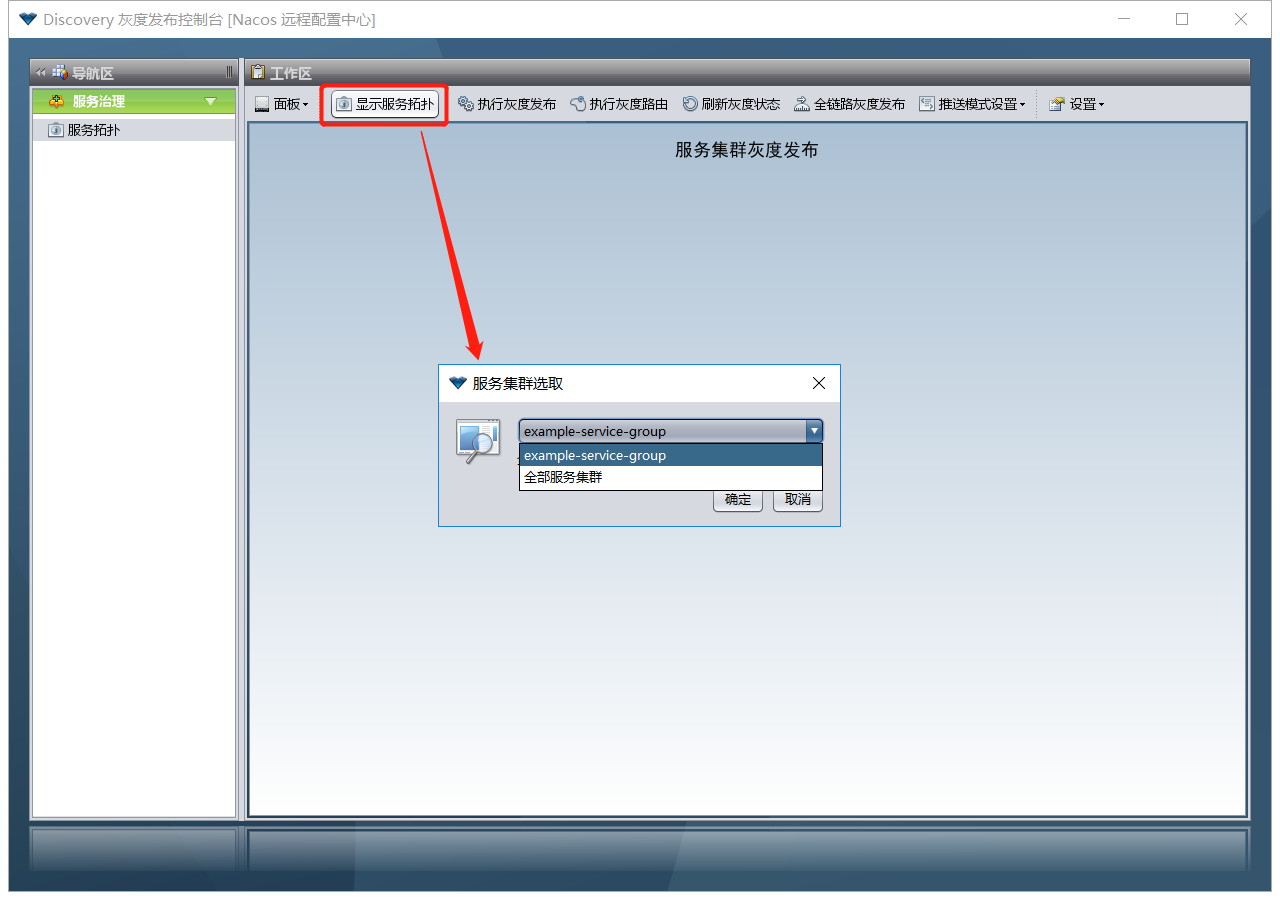
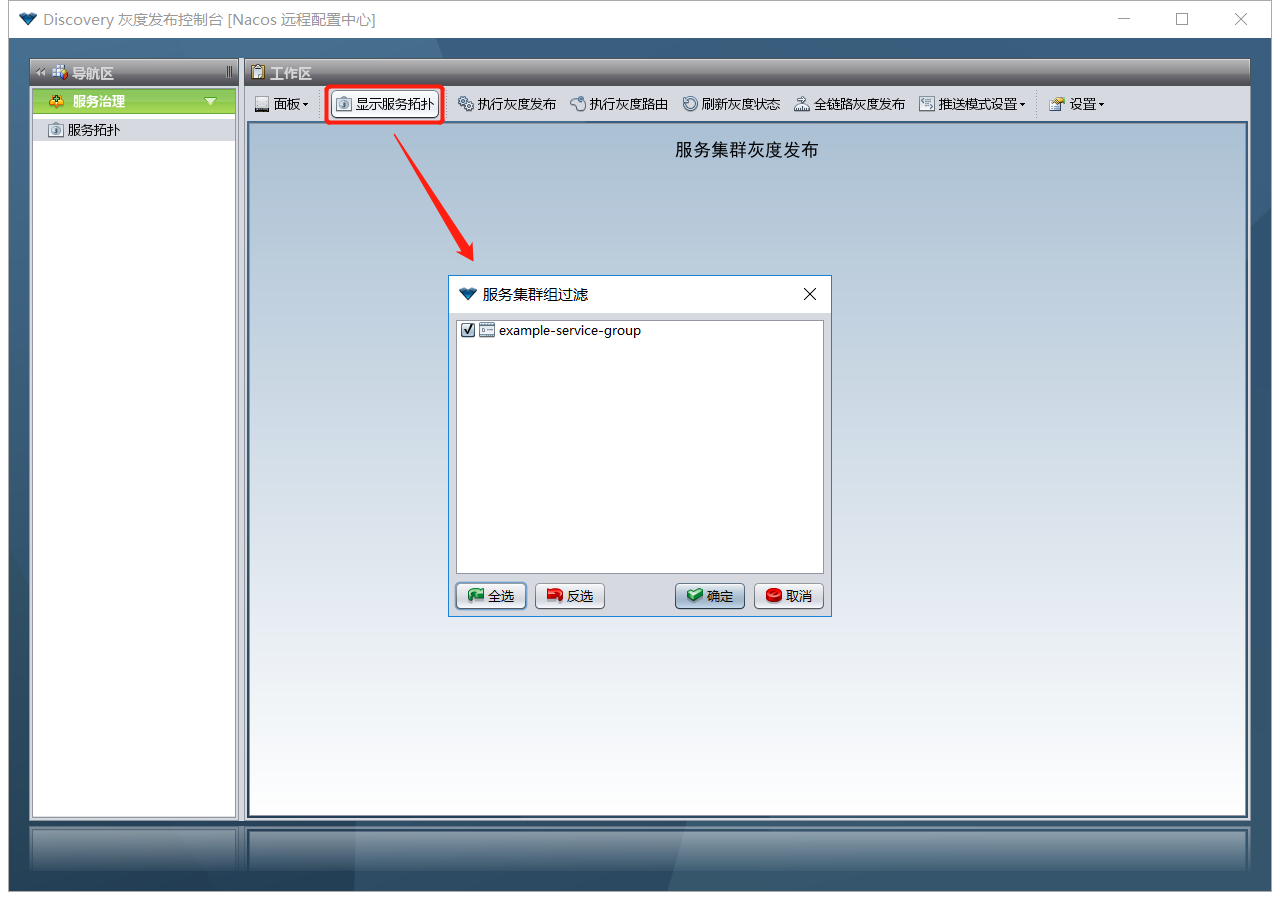
修改介绍

Changed region(s): [[0.3438, 0.2178, 0.6562, 0.6844], [0.25, 0.0933, 0.375, 0.2178]]

diff --git a/discovery-plugin-doc/README_QUICK_START.md b/discovery-plugin-doc/README_QUICK_START.md
@@ -186,7 +186,7 @@ management.server.port=3333
   - 进入discovery-console-desktop-[版本号]-release，请修改config/console.properties中的url，该地址指向控制平台的地址
   - 运行“Discovery灰度发布控制台.bat”，启动桌面程序
 - 操作界面
-  - 点击“显示服务拓扑”按钮，弹出“服务集群选取”对话框，下拉列表是以服务所在的集群组分类列表（例如：eureka.instance.metadataMap.group=example-service-group），选择一个并点击“确定”按钮。如果使用者想执行跨服务集群灰度发布，请选择“全部服务集群”
+  - 点击“显示服务拓扑”按钮，弹出“服务集群组过滤”对话框，列表是以服务所在的集群组列表（例如：eureka.instance.metadataMap.group=example-service-group），选择若干个并点击“确定”按钮，如果使用者想获取全部的服务集群（可能会耗性能），则直接点击“取消”按钮
 ![Alt text](https://github.com/Nepxion/Docs/blob/master/discovery-plugin-doc/Console4.jpg)
   - 从服务注册发现中心获取服务拓扑
 ![Alt text](https://github.com/Nepxion/Docs/blob/master/discovery-plugin-doc/Console5.jpg)
